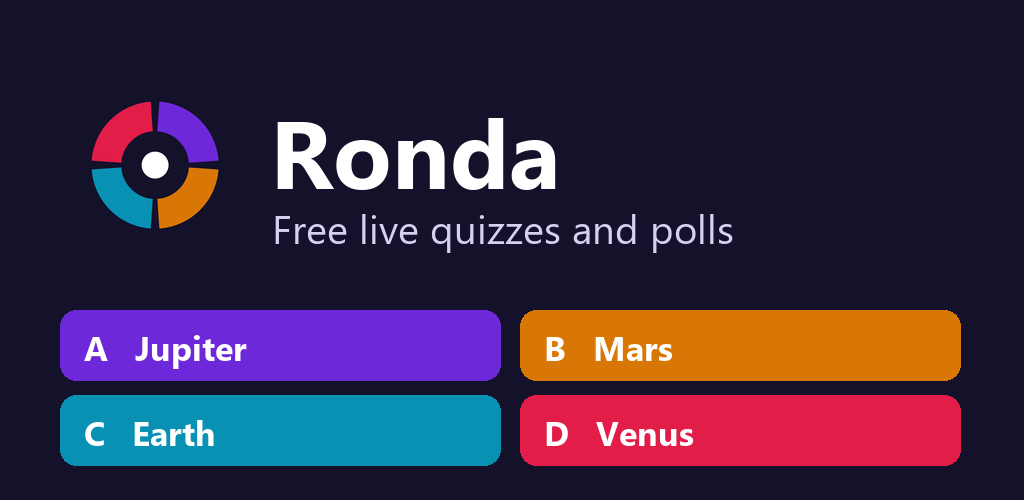
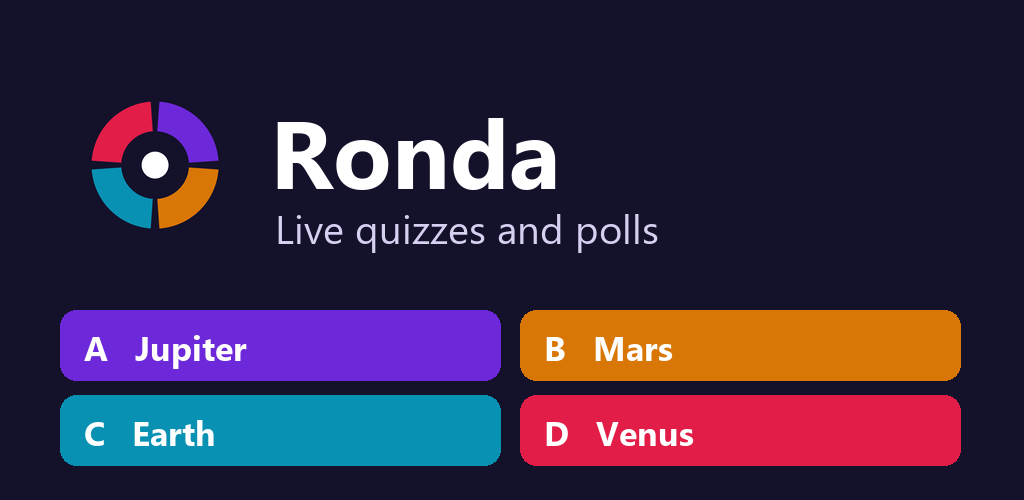
Store listing: no price words (Play Metadata policy)

Changed region(s): [[0.25, 0.42, 0.7188, 0.51]]

diff --git a/android/store/listing.md b/android/store/listing.md
@@ -3,7 +3,7 @@
 ## en-US
 Name: Ronda: Live Quizzes & Polls
 
-Short: Live quizzes and polls for family, class or work. Free, no account, no limits.
+Short: Live quizzes and polls for family, class or work. No account, no limits.
 
 Full:
 Make a quiz or a poll, show it on a big screen or share your screen in a video call, and everyone answers on their phone with a 6-digit code or by scanning the QR code.
@@ -13,7 +13,7 @@ Make a quiz or a poll, show it on a big screen or share your screen in a video c
 • Words: everyone sends up to 3 words, shown as a word cloud.
 • Scale: everyone picks 1 to 5 and you see the average.
 
-Free, with no account, no ads and no player limit (up to 500 people in one room). Players don't need to install anything: they can join from any browser at quiz.jurisgames.com.
+No account, no ads and no player limit (up to 500 people in one room). Players don't need to install anything: they can join from any browser at quiz.jurisgames.com.
 
 What you make is saved only on your device. Share a whole quiz as a link, or download the results as a spreadsheet (CSV). The server deletes a game when the room is closed, or 6 hours after the last activity at most.
 
@@ -22,7 +22,7 @@ Open source: github.com/kleiders3010/ronda
 ## es-419
 Name: Ronda: trivias y encuestas
 
-Short: Trivias y encuestas en vivo para la familia, la clase o el trabajo. Gratis.
+Short: Trivias y encuestas en vivo para la familia, la clase o el trabajo. Sin cuenta.
 
 Full:
 Armá una trivia o una encuesta, mostrala en una pantalla grande o compartí la pantalla en una videollamada, y todos responden desde el celular con un código de 6 números o escaneando el código QR.
@@ -32,7 +32,7 @@ Armá una trivia o una encuesta, mostrala en una pantalla grande o compartí la 
 • Palabras: cada uno manda hasta 3 palabras y se ven como una nube de palabras.
 • Escala: cada uno elige del 1 al 5 y se ve el promedio.
 
-Gratis, sin cuenta, sin anuncios y sin límite de jugadores (hasta 500 personas por sala). Los jugadores no necesitan instalar nada: pueden entrar desde cualquier navegador en quiz.jurisgames.com.
+Sin cuenta, sin anuncios y sin límite de jugadores (hasta 500 personas por sala). Los jugadores no necesitan instalar nada: pueden entrar desde cualquier navegador en quiz.jurisgames.com.
 
 Lo que creás se guarda solo en tu dispositivo. Compartí una ronda entera como enlace o descargá los resultados como planilla (CSV). El servidor borra la partida cuando se cierra la sala o, como máximo, 6 horas después de la última actividad.
 
